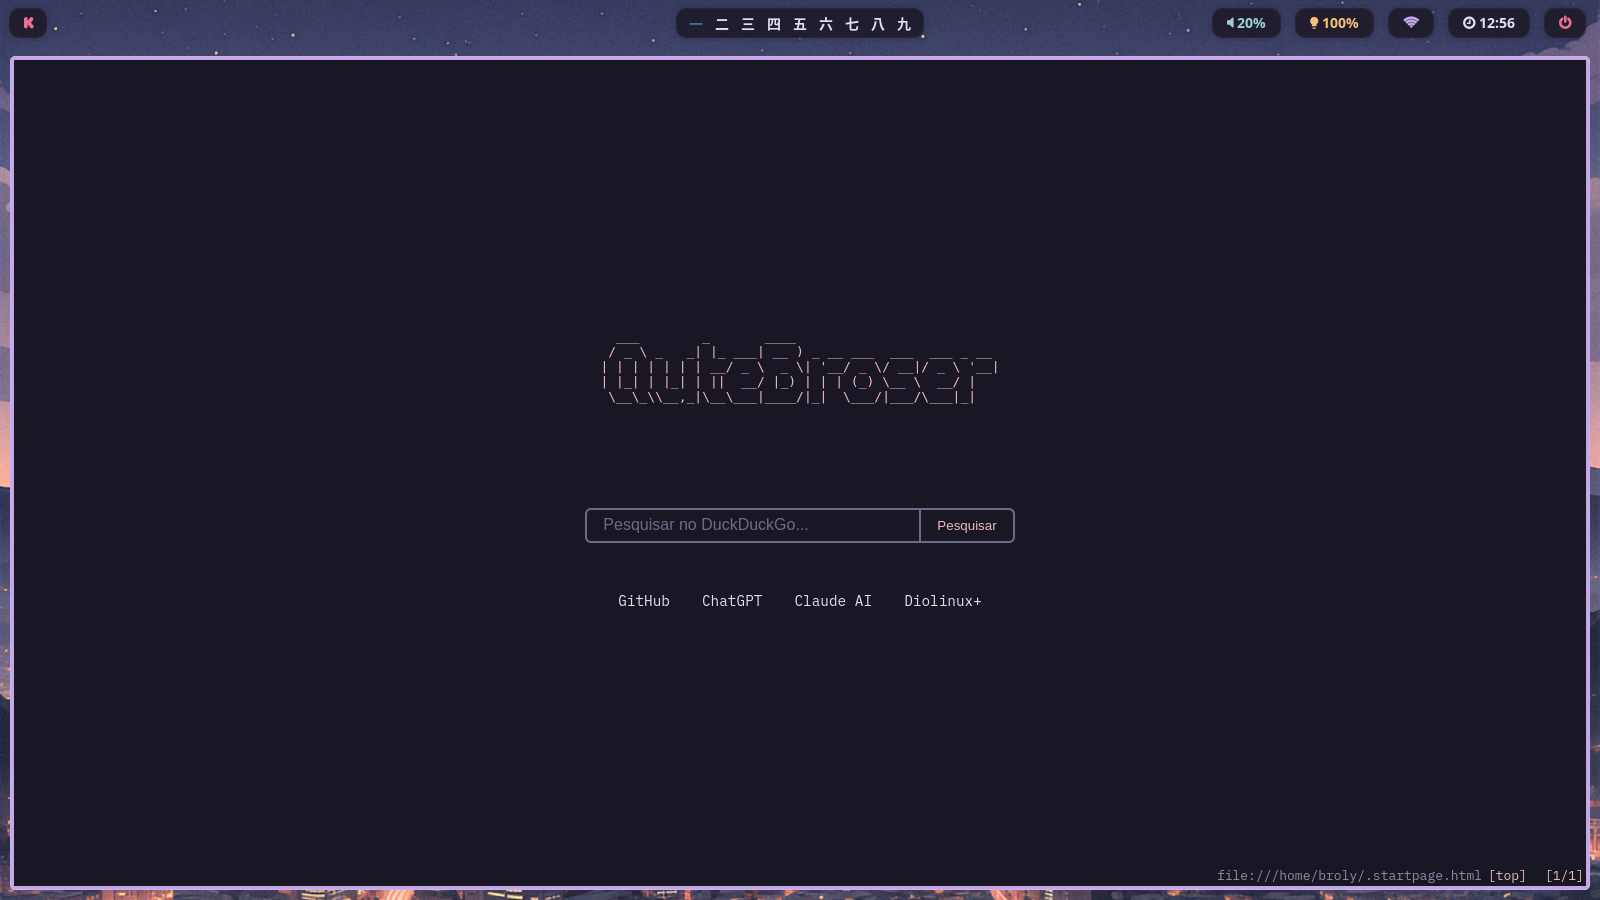
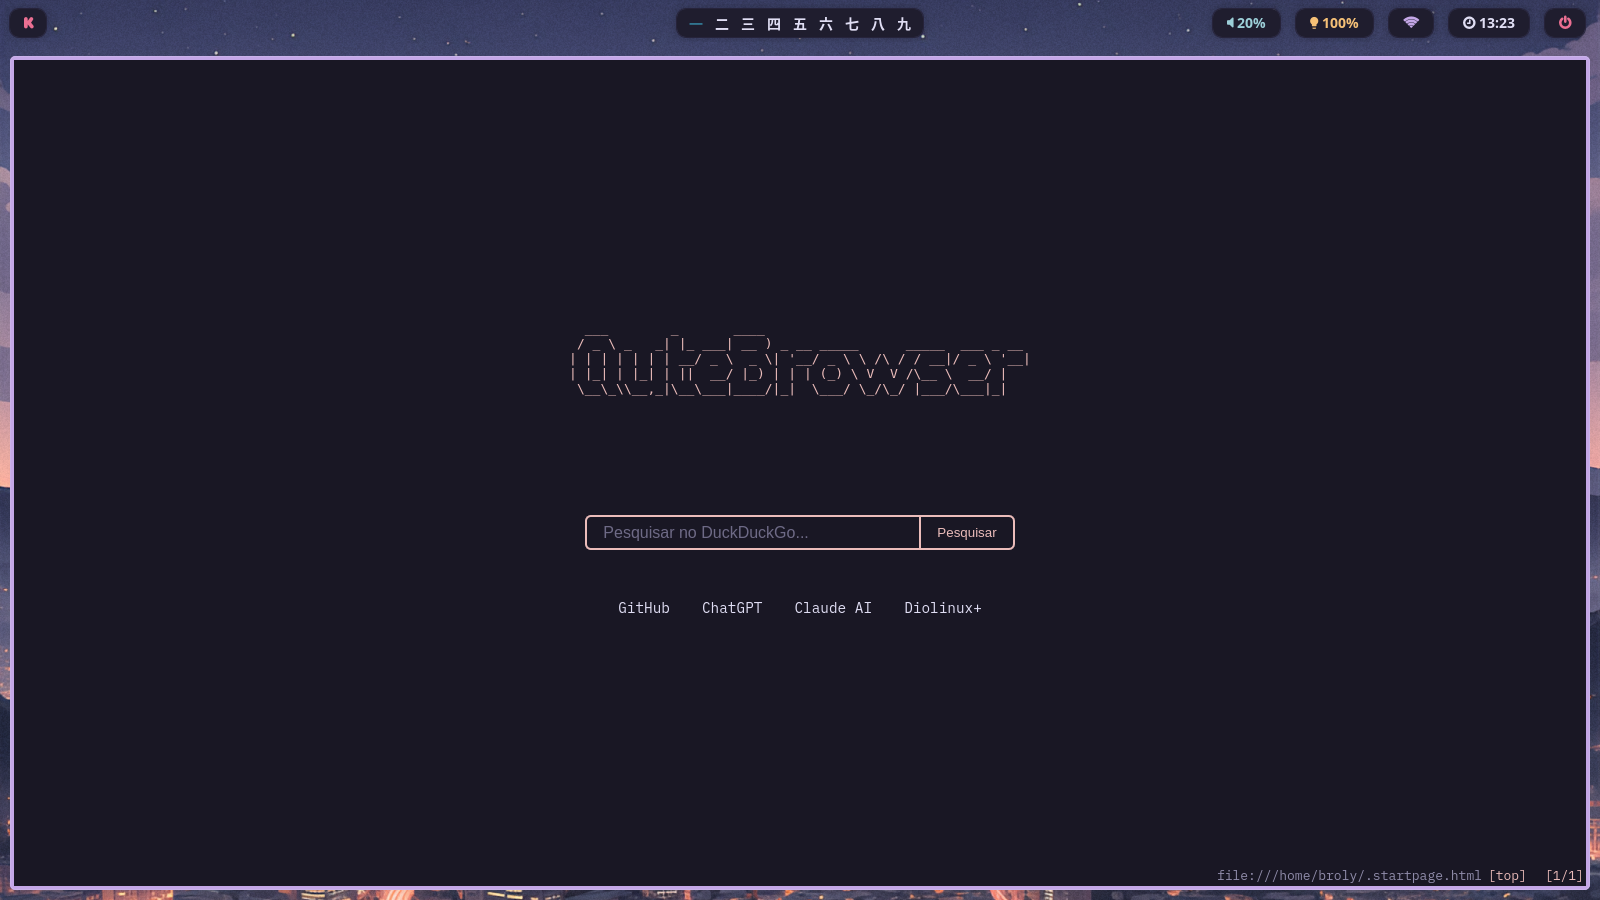
Update startpage for qute

diff --git a/qutebrowser/startpage/.startpage.html b/qutebrowser/startpage/.startpage.html
@@ -96,11 +96,12 @@
   </head>
   <body>
     <pre class="ascii-art">
-  ___        _       ____                          
- / _ \ _   _| |_ ___| __ ) _ __ ___  ___  ___ _ __ 
-| | | | | | | __/ _ \  _ \| '__/ _ \/ __|/ _ \ '__|
-| |_| | |_| | ||  __/ |_) | | | (_) \__ \  __/ |   
- \__\_\\__,_|\__\___|____/|_|  \___/|___/\___|_|   
+  ___        _       ____                                  
+ / _ \ _   _| |_ ___| __ ) _ __ _____      _____  ___ _ __ 
+| | | | | | | __/ _ \  _ \| '__/ _ \ \ /\ / / __|/ _ \ '__|
+| |_| | |_| | ||  __/ |_) | | | (_) \ V  V /\__ \  __/ |   
+ \__\_\\__,_|\__\___|____/|_|  \___/ \_/\_/ |___/\___|_|   
+                                                           
 </pre
     >
 
